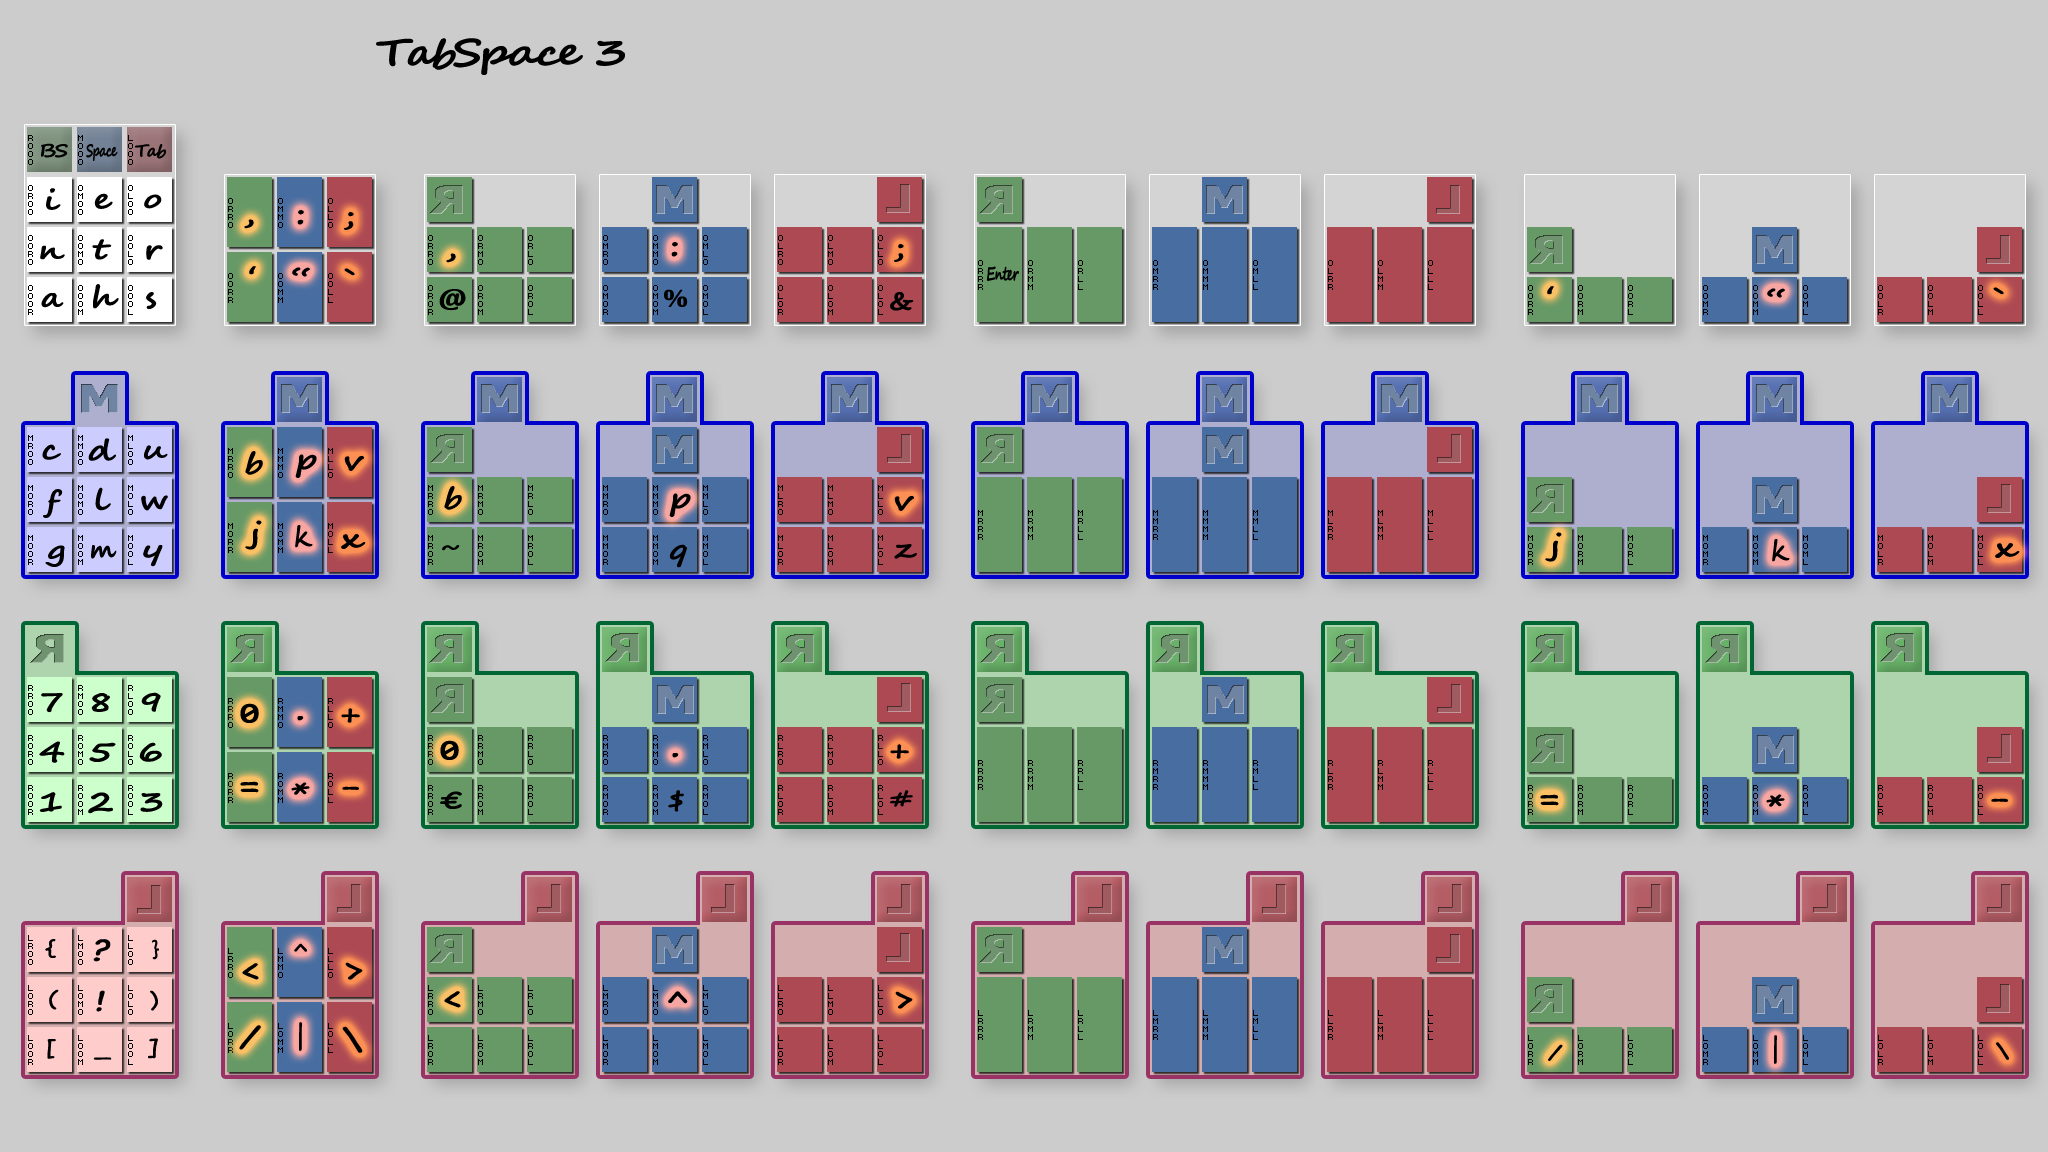
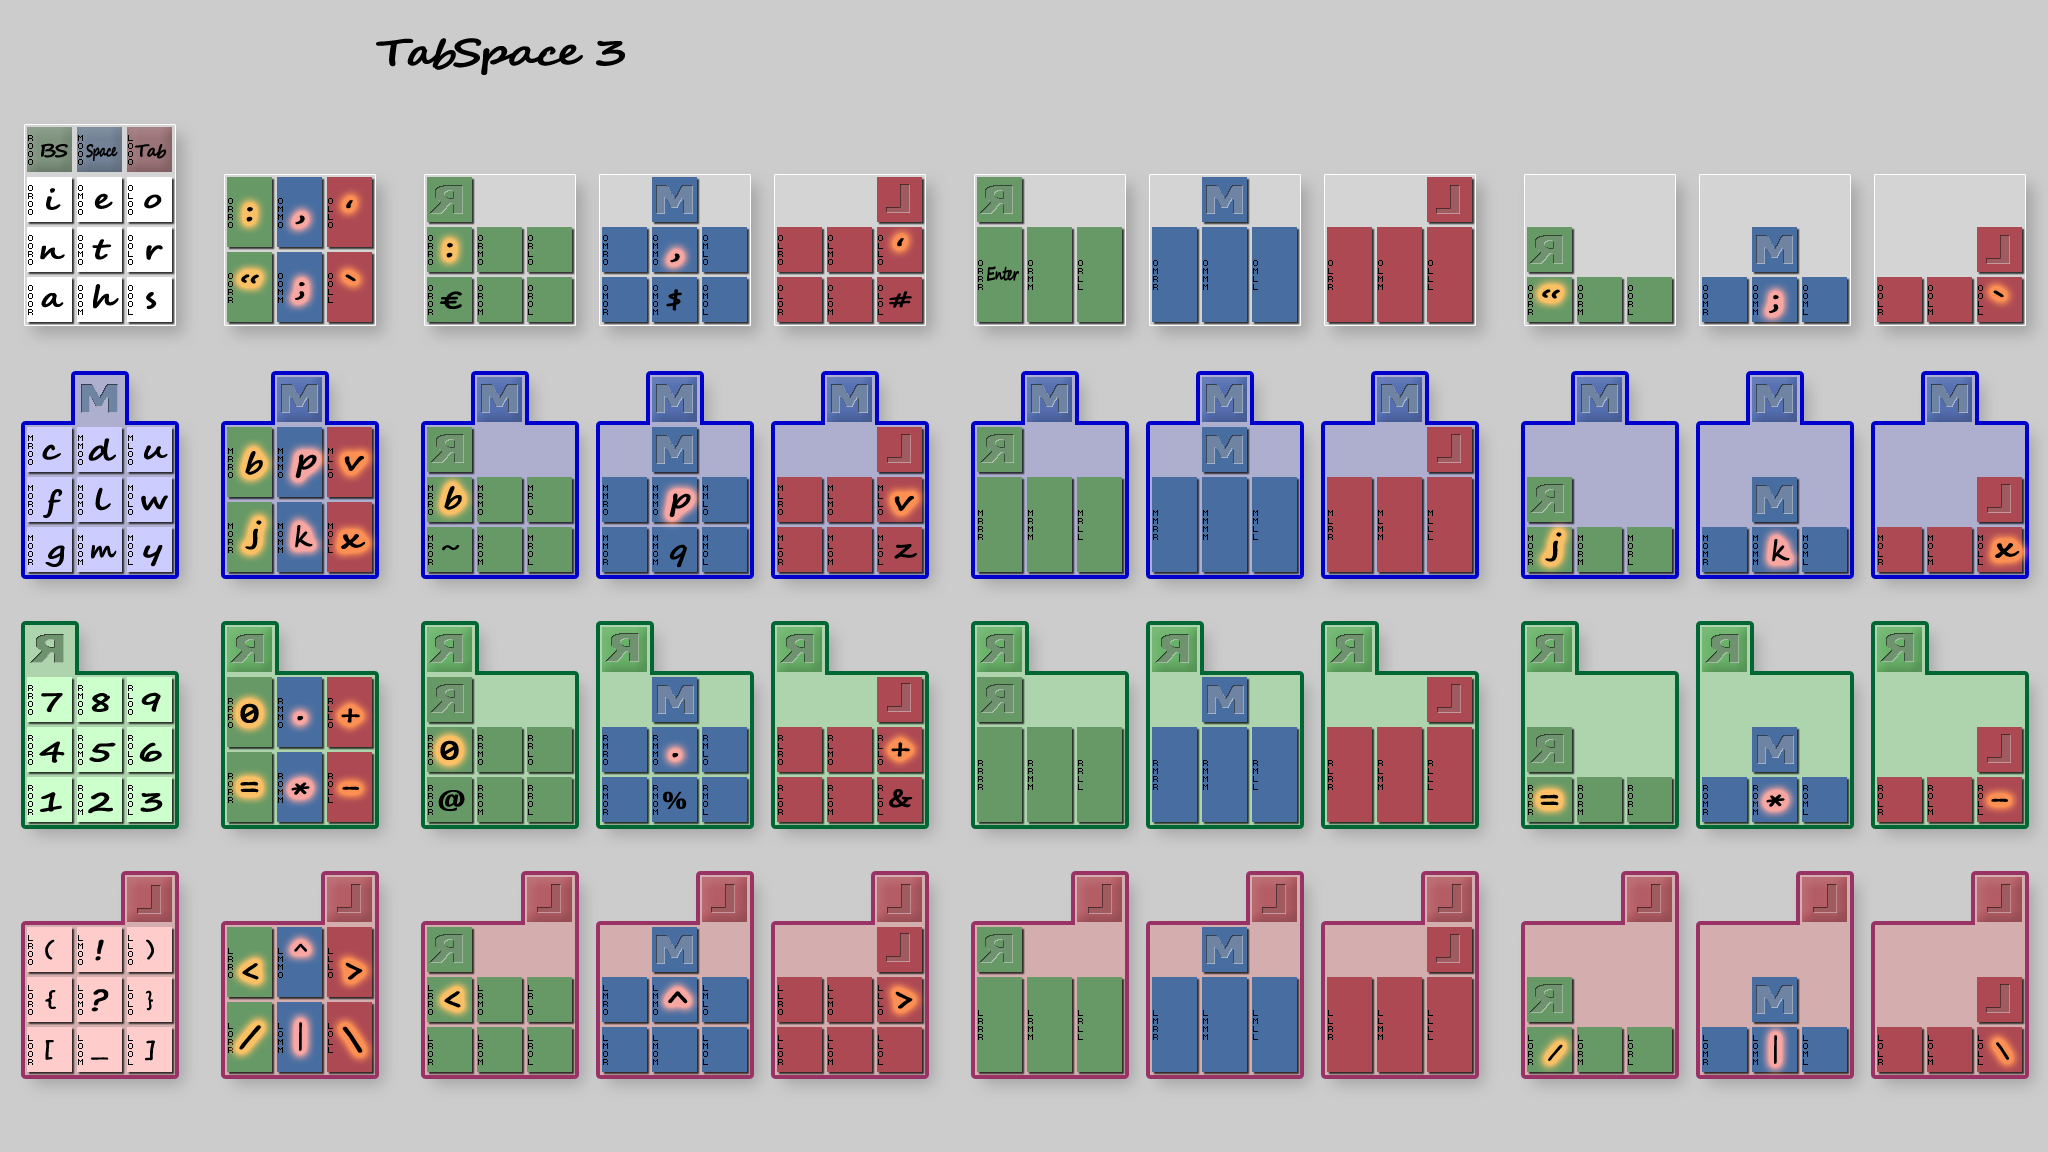
3x3-L2B corrected, moved () and {}, @%& and €$#, larger bottom_div

diff --git a/index.html b/index.html
@@ -594,7 +594,7 @@ num   00ll = SCROLL_LOCK
 ><div class="vg"><span class="ll">L</span><span class="ll">L</span><span class="rr">R</span> 2B+1</div
 ><div class="vg"><span class="ll">L</span><span class="ll">L</span><span class="mm">M</span> 2B+1</div
 ><div class="gr"><span class="ll">L</span><span class="ll">L</span><span class="ll">L</span>   3B</div
-><div class="gr"><span class="ll">L</span><span class="ll">L</span><span class="oo">O</span>   3B</div
+><div class="gr"><span class="ll">L</span><span class="ll">L</span><span class="oo">O</span>   2B</div
 ><div class="bt"><span class="ll">L</span><span class="oo">O</span><span class="rr">R</span>   2b</div
 ><div class="bt"><span class="ll">L</span><span class="oo">O</span><span class="mm">M</span>   2b</div
 ><div class="bt"><span class="ll">L</span><span class="oo">O</span><span class="ll">L</span>   2b</div
@@ -766,8 +766,9 @@ num   00ll = SCROLL_LOCK
    </p>
 
    <p>
-   Now, we have to decide how to distribute the remaining symbols
-   in a way that will make sense for the next stage of this approach.
+   Then, we will have to decide how to distribute symbols
+   in a way that will make sense for the next stage of this approach
+   where it be question of memorizing the layout.
    </p>
 
    <p>
@@ -909,12 +910,9 @@ num   00ll = SCROLL_LOCK
   <!-- ...todo... {{{ -->
   <div class="fold_title" onclick='toggle_div(this, "twiddler3_todo");'>...todo...</div>
   <div id="div_twiddler3_todo" class="collapsed">
-   <p>
-   Find a good place for 
-   <em>@</em> <em>#</em> <em>&amp;</em>
-   and
-   <em>&euro;</em> <em>$</em> <em>#</em>
-   </p>
+   Find a good place for:
+   <br><em>&euro;</em> <em>$</em> <em>#</em>
+   <br><em>@</em> <em>%</em> <em>&amp;</em>
   </div>
   <!-- }}} -->
    <img class="wrap_img" title="collapse" src="images/cursor/left.png" onclick='toggle_div(this, "twiddler3");'>

diff --git a/stylesheets/styles.css b/stylesheets/styles.css
@@ -441,7 +441,7 @@ footer p + p {
     color:navy;
 */
 #bottom_div {
-    height    : 30em;
+    height    : 80em;
     opacity   : 0.10; filter:alpha(opacity=100);
 }
 
